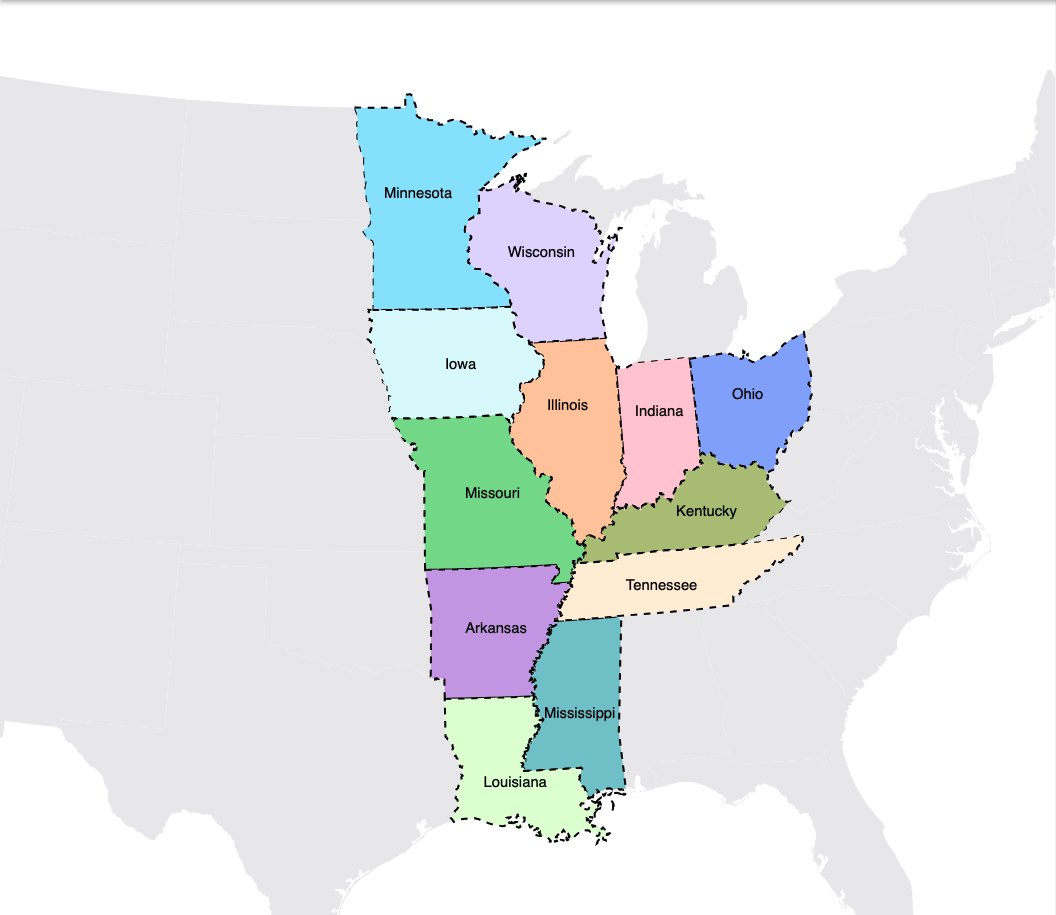
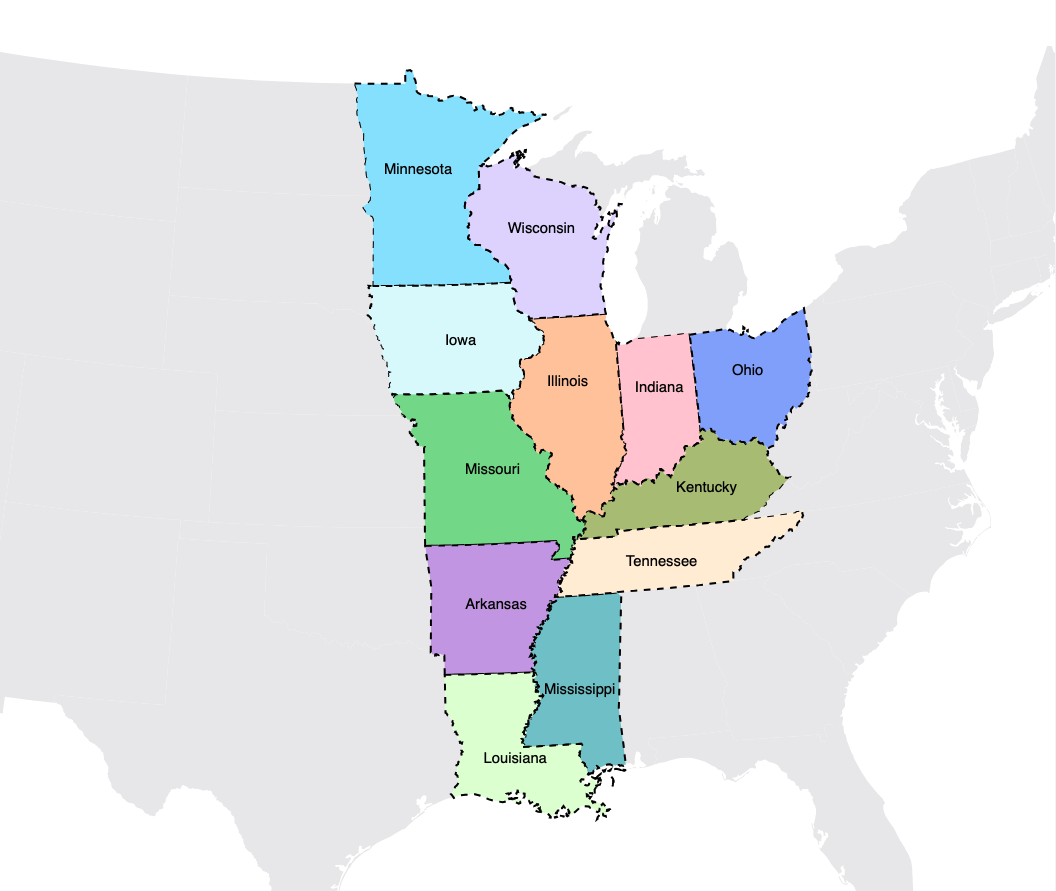
Commiting landing page changes

Changed region(s): [[0.3125, 0.0606, 0.7812, 0.9394], [0.0, 0.0, 1.0, 0.0303], [0.3438, 0.3939, 0.375, 0.4242]]

diff --git a/src/containers/LandingPage/components/partners/index.jsx b/src/containers/LandingPage/components/partners/index.jsx
@@ -5,11 +5,15 @@ const useStyles = makeStyles((theme) => ({
 	root: {
 		marginTop: theme.spacing(2),
 	},
+	gridContainer: {
+		alignItems: "center",
+	},
 	partnerContainer: {
 		display: "flex",
 		justifyContent: "center",
 		alignItems: "center",
 		padding: theme.spacing(2),
+		height: "100%", // Ensures container takes full height of grid item
 		transition: "transform 0.2s ease-in-out",
 
 		"&:hover": {
@@ -19,7 +23,6 @@ const useStyles = makeStyles((theme) => ({
 	partnerImage: {
 		maxWidth: "100%",
 		height: "auto",
-		maxHeight: ({ isMobile }) => (isMobile ? "100px" : "150px"),
 		objectFit: "contain",
 	},
 	title: {
@@ -34,10 +37,13 @@ const useStyles = makeStyles((theme) => ({
 	},
 }));
 
-const Partners = ({ partner1, partner2, link1, link2 }) => {
+const Partners = ({ partner1, partner2, link1, link2, maxHeight1, maxHeight2 }) => {
 	const theme = useTheme();
 	const isMobile = useMediaQuery(theme.breakpoints.down("sm"));
-	const classes = useStyles({ isMobile });
+	const classes = useStyles();
+
+	// Default heights based on mobile/desktop
+	const defaultHeight = isMobile ? "150px" : "190px";
 
 	return (
 		<div className={classes.root}>
@@ -46,18 +52,38 @@ const Partners = ({ partner1, partner2, link1, link2 }) => {
 					Our Partners
 				</Typography>
 			</Box>
-			<Grid container spacing={isMobile ? 2 : 4}>
+			<Grid container spacing={isMobile ? 2 : 4} className={classes.gridContainer}>
 				<Grid item xs={12} sm={6}>
-					<Link href={link1} target="_blank" rel="noopener noreferrer">
+					<Link
+						href={link1}
+						target="_blank"
+						rel="noopener noreferrer"
+						style={{ display: "block", height: "100%" }}
+					>
 						<div className={classes.partnerContainer}>
-							<img src={partner1} alt="Partner 1" className={classes.partnerImage} />
+							<img
+								src={partner1}
+								alt="Partner 1"
+								className={classes.partnerImage}
+								style={{ maxHeight: maxHeight1 || defaultHeight }}
+							/>
 						</div>
 					</Link>
 				</Grid>
 				<Grid item xs={12} sm={6}>
-					<Link href={link2} target="_blank" rel="noopener noreferrer">
+					<Link
+						href={link2}
+						target="_blank"
+						rel="noopener noreferrer"
+						style={{ display: "block", height: "100%" }}
+					>
 						<div className={classes.partnerContainer}>
-							<img src={partner2} alt="Partner 2" className={classes.partnerImage} />
+							<img
+								src={partner2}
+								alt="Partner 2"
+								className={classes.partnerImage}
+								style={{ maxHeight: maxHeight2 || defaultHeight }}
+							/>
 						</div>
 					</Link>
 				</Grid>

diff --git a/src/containers/Layout/Header.jsx b/src/containers/Layout/Header.jsx
@@ -6,7 +6,7 @@ import ArrowRightIcon from "@material-ui/icons/ArrowRight";
 
 import LogoApp from "../../images/logo_app.png";
 
-export const HEADERS_HEIGHT = 61;
+export const HEADERS_HEIGHT = 65;
 
 const useStyles = makeStyles((theme) => ({
 	appbar: {
@@ -23,11 +23,12 @@ const useStyles = makeStyles((theme) => ({
 		color: theme.palette.primary.contrastText,
 		textDecoration: "none",
 		marginBottom: 0,
+		fontSize: "2rem",
 	},
 	tagline: {
 		color: theme.palette.primary.contrastText,
-		fontSize: "0.875rem",
-		textAlign: "center",
+		fontSize: "0.800rem",
+		textAlign: "left",
 	},
 	contactText: {
 		fontSize: "1rem",
@@ -101,11 +102,11 @@ const Header = ({ location }: Props) => {
 			<Toolbar className={classes.mainHeader}>
 				<Avatar component={Link} to="/" src={LogoApp} />
 				<div style={{ display: "flex", flexDirection: "column", marginLeft: "1em" }}>
-					<Typography component={Link} to="/" className={classes.headerText} variant="h5" noWrap>
+					<Typography className={classes.headerText} variant="h5" noWrap>
 						Great Lakes to Gulf
 					</Typography>
 					<Typography className={classes.tagline} variant="h6" noWrap>
-						Tracking nutrients in the river
+						Tracking nutrients in the Mississippi River Basin
 					</Typography>
 				</div>
 				<Tabs
@@ -123,17 +124,17 @@ const Header = ({ location }: Props) => {
 					/>
 					<Tab
 						className={classes.tabRoot}
+						label="State Efforts"
+						component={Link}
+						id="geoApp-button"
+						to="/stateportal"
+					/>
+					<Tab
+						className={classes.tabRoot}
 						label="Explore Data"
 						component={Link}
 						id="geoApp-button"
 						to="/explore/all"
-					/>
-					<Tab
-						className={classes.tabRoot}
-						label="State Portal"
-						component={Link}
-						id="geoApp-button"
-						to="/stateportal"
 					/>
 				</Tabs>
 				<Typography component="a" to="/" href="mailto:lkammin@lc.edu" className={classes.contactText} noWrap>

diff --git a/src/containers/LandingPage/components/about/index.jsx b/src/containers/LandingPage/components/about/index.jsx
@@ -182,38 +182,6 @@ const About = () => {
 										}
 									/>
 								</Box>
-								<Box className={classes.playerWrapper}>
-									{/* <ReactPlayer
-										url="https://www.youtube.com/watch?v=RO_-MMcReSk"
-										width="70%"
-										height={isMobile ? "200px" : "250px"}
-									/> */}
-									<ResponsiveImage
-										src="https://cdn.pixabay.com/photo/2019/03/28/17/34/glass-of-water-4087606_1280.jpg"
-										alt="Glass of water"
-										width="60%"
-										height="10%"
-										caption="Excess nutrients that enter rivers, lakes, and groundwater can end up in our drinking water."
-										photoCredit={
-											<>
-												Photo: Image by{" "}
-												<a
-													href="https://pixabay.com/users/giltonf-4489736/?utm_source=link-attribution&utm_medium=referral&utm_campaign=image&utm_content=4087606"
-													target="_blank"
-												>
-													GiltonF
-												</a>{" "}
-												from{" "}
-												<a
-													href="https://pixabay.com/?utm_source=link-attribution&utm_medium=referral&utm_campaign=image&utm_content=4087606"
-													target="_blank"
-												>
-													Pixabay
-												</a>
-											</>
-										}
-									/>
-								</Box>
 							</Box>
 						</Grid>
 					</Grid>

diff --git a/src/containers/Layout/SmallHeader.jsx b/src/containers/Layout/SmallHeader.jsx
@@ -38,7 +38,7 @@ const useStyles = makeStyles((theme) => ({
 	tagline: {
 		color: theme.palette.primary.contrastText,
 		fontSize: "0.875rem",
-		textAlign: "center",
+		textAlign: "left",
 	},
 	contactText: {
 		fontSize: "1rem",
@@ -106,7 +106,7 @@ const SmallHeader = ({ location }: Props) => {
 						Great Lakes to Gulf
 					</Typography>
 					<Typography className={classes.tagline} variant="h6" noWrap>
-						Tracking nutrients in the river
+						Tracking nutrients in the Mississippi River Basin
 					</Typography>
 				</div>
 				<div className={classes.menuIcon}>
@@ -159,6 +159,15 @@ const SmallHeader = ({ location }: Props) => {
 							to="/explore/all"
 						>
 							Explore Data
+						</MenuItem>
+						{/* Contact us */}
+						<MenuItem
+							classes={{ root: classes.menuItem }}
+							onClick={menuHandleClose}
+							component="a"
+							href="mailto:lkammin@lc.edu"
+						>
+							Contact Us
 						</MenuItem>
 					</Menu>
 				</div>

diff --git a/src/containers/LandingPage/index.jsx b/src/containers/LandingPage/index.jsx
@@ -133,7 +133,14 @@ const Home = () => {
 				youtubeLink={"https://www.youtube.com/watch?v=RO_-MMcReSk"}
 				buttonLink="/explore/all"
 			/>
-			<Partners partner1={NGRREC} partner2={NCSA} link1={partnerLink1} link2={partnerLink2} />
+			<Partners
+				partner1={NGRREC}
+				partner2={NCSA}
+				link1={partnerLink1}
+				link2={partnerLink2}
+				maxHeight1={"180px"}
+				maxHeight2={"240px"}
+			/>
 			<Funding image1={WaltonFamily} link1={fundLink1} />
 		</Box>
 	);

diff --git a/src/containers/Layout/index.jsx b/src/containers/Layout/index.jsx
@@ -9,15 +9,14 @@ import SmallHeader from "./SmallHeader";
 
 const useStyles = makeStyles({
 	scrim: {
-		position: "absolute",
+		position: "relative",
 		background: "rgba(0, 0, 0, 0.5)",
 		zIndex: 2000,
 	},
 	main: {
-		position: "absolute",
+		position: "relative",
 		top: HEADERS_HEIGHT,
 		width: "100%",
-		height: `calc(100% - ${HEADERS_HEIGHT}px)`,
 	},
 });
 
